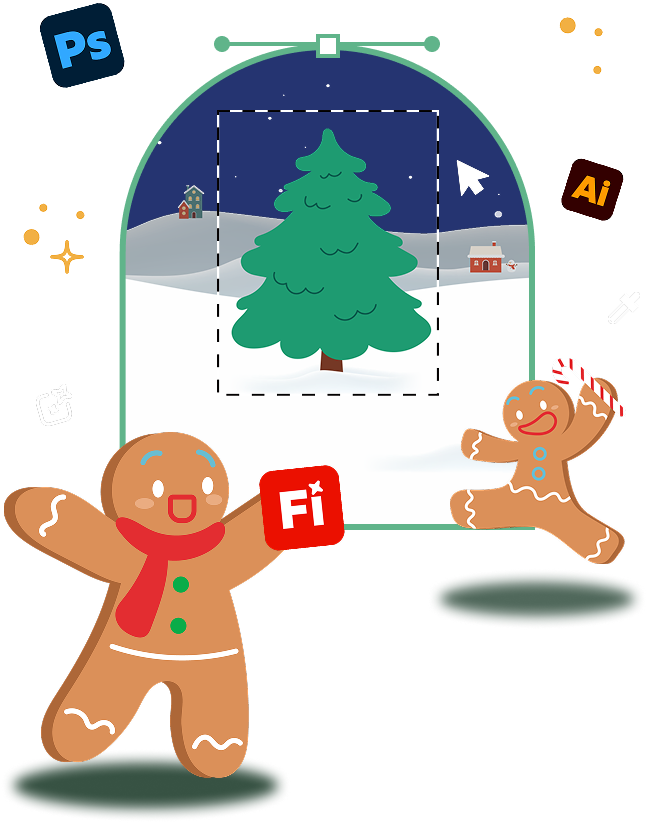
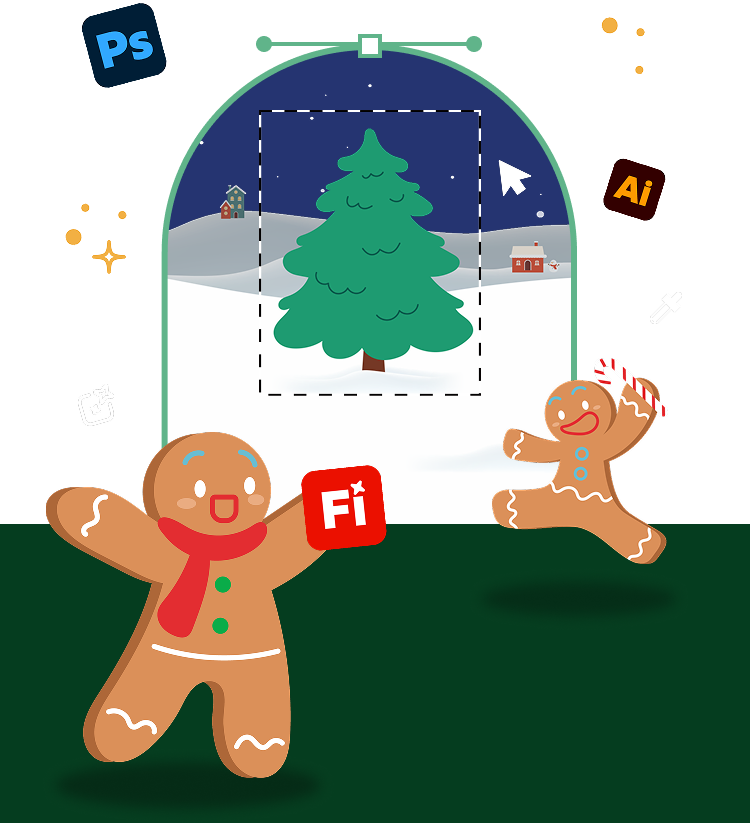
수정사항 v3

diff --git a/adobe-christmas/game.html b/adobe-christmas/game.html
@@ -10,7 +10,7 @@
     <link rel="stylesheet" type="text/css" href="css/style.css" />    
 
     <script src="https://code.jquery.com/jquery-3.6.0.min.js"></script>    
-    <!-- <script src="https://app.embed.im/snow.js" defer></script> -->
+    <script src="https://app.embed.im/snow.js" defer></script>
 </head>
 <body>  
     <div class="scale-wrapper-adobe-christmas-game">
@@ -211,7 +211,7 @@
               <li class="choice4">Ctrl + D</li>
             </ul>
             <div class="hint">
-              <p><img src="img/hint-icon.png">&nbsp;&nbsp;힌트</p> 
+              <p><img src="img/hint-icon.png">힌트</p> 
               다른 이름으로 저장은 Shift + Ctrl + S
             </div>            
             <div class="cont btn-area" id="firstQuizBtn">
@@ -228,7 +228,7 @@
               <li class="choice4">Shift + P</li>
             </ul>
             <div class="hint">
-              <p><img src="img/hint-icon.png"> &nbsp;&nbsp;힌트</p> 
+              <p><img src="img/hint-icon.png">힌트</p> 
               키보드에서 가장 눈에 띄는 키가 뭘까요?
             </div>        
             <div class="cont btn-area">            
@@ -245,7 +245,7 @@
               <li class="choice4">Ctrl + G</li>
             </ul>
             <div class="hint">
-              <p><img src="img/hint-icon.png"> &nbsp;&nbsp;힌트</p> 
+              <p><img src="img/hint-icon.png">힌트</p> 
               'Group'의 스펠링을 잘 생각해 보세요!
             </div>           
             <div class="cont btn-area">            
@@ -266,7 +266,7 @@
       <div class="modal-cont">
         <!-- <div class="cont cont0"></div>          -->
         <div class="cont cont1">          
-          <div class="tit-stage">STAGE 01</div>
+          <div class="tit-stage">STAGE 03</div>
           <div class="tit1 pink fs28">Firefly</div>
           <div class="tit2 white fs40">텍스트를 <span class="green">비디오</span>로</div>
           <div class="cont1-txt">2026년의 나는 무엇을 할까?<br>이루고 싶은 장면을 영상으로 표현해보세요</div>

diff --git a/adobe-christmas/css/style.css b/adobe-christmas/css/style.css
@@ -377,11 +377,10 @@
   font-family: var(--font-family-paperlogy-7bold);
 }
 #stage2 .quiz .hint img {
-  width:14px; 
+  width:3.73vw;
   height:auto;
+  margin-right:0.2rem;
 }
-
-
 
 #stage3 .item-img { 
   width: 193px;
@@ -593,7 +592,8 @@ input, select {
   margin:0 auto;  
 }
 .adobe-christmas .section3 img {
-  width: 88%;
+  /* width: 88%; */
+  width:100%;
   position: absolute;
   left:50%;
   transform: translateX(-50%);
@@ -613,9 +613,8 @@ input, select {
   height:100%;
   /* height: 762px; */
   left: 0;
-  position: absolute;
-  top: clamp(262px, 69.866vw, 524px);
-  /* width: 375px; */
+  position: absolute;  
+  top: clamp(67.47vw, 67.47vw, 524px);
   width:100%;  
 }
 
@@ -2237,6 +2236,11 @@ input, select {
     transform-origin: top center; 
   }
 
+
+  #stage2 .quiz .hint img {
+    width:28px; 
+    margin-right:6px;
+  }
 
   .section1 .kakao-btn {
     width:572px;

diff --git a/adobe-christmas/index.html b/adobe-christmas/index.html
@@ -16,7 +16,7 @@
     <link rel="stylesheet" type="text/css" href="css/style.css?ver=2" />    
 
     <script src="https://code.jquery.com/jquery-3.6.0.min.js"></script>    
-    <script src="https://app.embed.im/snow.js" defer></script>
+    <!-- <script src="https://app.embed.im/snow.js" defer></script> -->
 
     <script type='text/javascript'>
 
